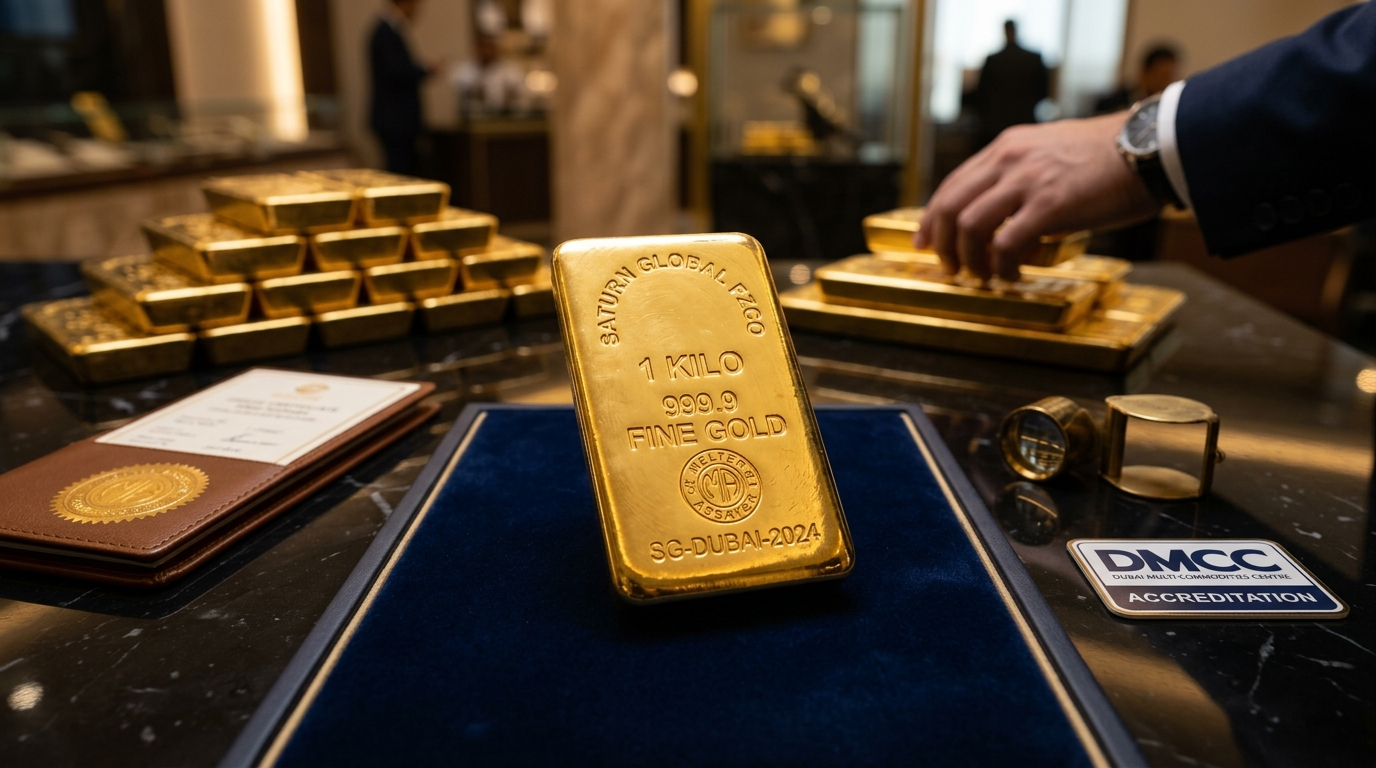
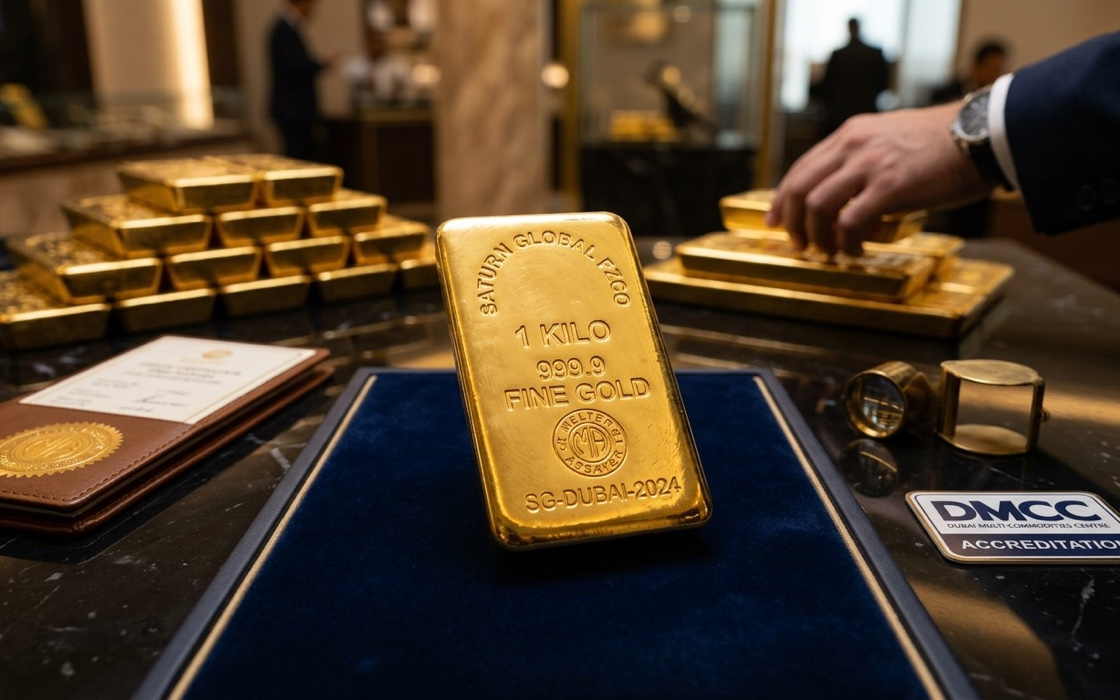
Optimize all website images to exact display container aspect ratios and frame sizes, reducing bandwidth lag while preserving pristine 2x retina clarity

diff --git a/src/features/home/HeroSection.tsx b/src/features/home/HeroSection.tsx
@@ -57,7 +57,7 @@ export function HeroSection({ onExploreServices }: HeroSectionProps) {
           >
             <div className="relative w-full max-w-[460px] grid grid-cols-2 gap-2 select-none">
               {/* Row 1 Left: Official Saturn Global Bullion Bars with rounded top-left corner */}
-              <div className="h-44 sm:h-52 rounded-tl-[80px] sm:rounded-tl-[100px] overflow-hidden bg-[#AA822A] shadow-md border-2 border-white/50 group">
+              <div className="h-44 sm:h-52 aspect-[230/208] rounded-tl-[80px] sm:rounded-tl-[100px] overflow-hidden bg-[#AA822A] shadow-md border-2 border-white/50 group">
                 <img
                   src="/images/saturn-branded-bullion.jpg"
                   alt="Saturn Global FZCO 999.9 Fine Gold Bullion Bars"
@@ -69,7 +69,7 @@ export function HeroSection({ onExploreServices }: HeroSectionProps) {
               </div>
 
               {/* Row 1 Right: Real physical gold bullion bars uploaded by user with rounded bottom-left corner */}
-              <div className="h-44 sm:h-52 rounded-bl-[80px] sm:rounded-bl-[100px] overflow-hidden shadow-md border-2 border-white/50 group bg-[#111]">
+              <div className="h-44 sm:h-52 aspect-[230/208] rounded-bl-[80px] sm:rounded-bl-[100px] overflow-hidden shadow-md border-2 border-white/50 group bg-[#111]">
                 <img
                   src="/images/saturn-real-bullion.webp"
                   alt="Real physical gold bars and bullion stock"
@@ -104,7 +104,7 @@ export function HeroSection({ onExploreServices }: HeroSectionProps) {
               </div>
 
               {/* Row 3 Left: Molten Gold Refinery Artisan with rounded bottom-left corner */}
-              <div className="h-44 sm:h-52 rounded-bl-[80px] sm:rounded-bl-[100px] overflow-hidden bg-[#141E1A] shadow-md border-2 border-white/50 group">
+              <div className="h-44 sm:h-52 aspect-[230/208] rounded-bl-[80px] sm:rounded-bl-[100px] overflow-hidden bg-[#141E1A] shadow-md border-2 border-white/50 group">
                 <img
                   src="/images/saturn-branded-refining.jpg"
                   alt="Gold refinery smelting and testing in Dubai"
@@ -116,7 +116,7 @@ export function HeroSection({ onExploreServices }: HeroSectionProps) {
               </div>
 
               {/* Row 3 Right: High-security Vault with rounded top-right corner */}
-              <div className="h-44 sm:h-52 rounded-tr-[80px] sm:rounded-tr-[100px] overflow-hidden shadow-md border-2 border-white/50 group bg-[#111]">
+              <div className="h-44 sm:h-52 aspect-[230/208] rounded-tr-[80px] sm:rounded-tr-[100px] overflow-hidden shadow-md border-2 border-white/50 group bg-[#111]">
                 <img
                   src="/images/saturn-branded-vault.jpg"
                   alt="High-security gold bullion vault in Dubai"

diff --git a/src/features/mining/MiningPage.tsx b/src/features/mining/MiningPage.tsx
@@ -157,7 +157,7 @@ export function MiningPage({ onPartnerInquiry: _ }: MiningPageProps) {
               transition={{ duration: 0.6, ease: 'easeOut' }}
               className="lg:col-span-5 flex justify-center"
             >
-              <div className="w-64 h-64 sm:w-80 sm:h-80 rounded-tl-[80px] rounded-br-[80px] rounded-tr-3xl rounded-bl-3xl overflow-hidden shadow-2xl border-4 border-white bg-[#121318] shrink-0 hover:scale-105 transition-all duration-300">
+              <div className="w-64 h-64 sm:w-80 sm:h-80 aspect-square rounded-tl-[80px] rounded-br-[80px] rounded-tr-3xl rounded-bl-3xl overflow-hidden shadow-2xl border-4 border-white bg-[#121318] shrink-0 hover:scale-105 transition-all duration-300">
                 <img
                   src="/images/saturn-branded-bullion.jpg"
                   alt="Saturn Global Gold Bullion Mining Project Finance"
@@ -207,7 +207,7 @@ export function MiningPage({ onPartnerInquiry: _ }: MiningPageProps) {
               transition={{ duration: 0.6, ease: 'easeOut' }}
               className="lg:col-span-5 flex justify-center"
             >
-              <div className="w-64 h-64 sm:w-80 sm:h-80 rounded-tr-[80px] rounded-bl-[80px] rounded-tl-3xl rounded-br-3xl overflow-hidden shadow-2xl border-4 border-white/90 bg-[#121318] shrink-0 hover:scale-105 transition-all duration-300">
+              <div className="w-64 h-64 sm:w-80 sm:h-80 aspect-square rounded-tr-[80px] rounded-bl-[80px] rounded-tl-3xl rounded-br-3xl overflow-hidden shadow-2xl border-4 border-white/90 bg-[#121318] shrink-0 hover:scale-105 transition-all duration-300">
                 <img
                   src="/images/saturn-branded-vault.jpg"
                   alt="Saturn Global Secure Vaulting and Working Partnerships"
@@ -268,7 +268,7 @@ export function MiningPage({ onPartnerInquiry: _ }: MiningPageProps) {
               transition={{ duration: 0.6, ease: 'easeOut' }}
               className="lg:col-span-5 flex justify-center"
             >
-              <div className="relative w-64 h-64 sm:w-80 sm:h-80 rounded-[48px] overflow-hidden shadow-2xl border-2 border-saturn-gold bg-[#111] shrink-0 hover:scale-105 transition-all duration-300 group">
+              <div className="relative w-64 h-64 sm:w-80 sm:h-80 aspect-square rounded-[48px] overflow-hidden shadow-2xl border-2 border-saturn-gold bg-[#111] shrink-0 hover:scale-105 transition-all duration-300 group">
                 <img
                   src="/images/saturn-real-bullion.webp"
                   alt="Saturn African Gold Bullion Supply"

diff --git a/src/features/markets/MarketsPage.tsx b/src/features/markets/MarketsPage.tsx
@@ -87,12 +87,14 @@ export function MarketsPage({ onContact: _ }: MarketsPageProps) {
               transition={{ duration: 0.7, ease: 'easeOut' }}
               className="lg:col-span-6 flex justify-center"
             >
-              <div className="w-full max-w-[540px]">
+              <div className="w-full max-w-[540px] aspect-square flex items-center justify-center">
                 <img
                   src="/images/market-africa-map.jpg"
                   alt="African Gold Trading Partners Map"
-                  className="w-full h-auto object-contain"
+                  className="w-full h-auto object-contain aspect-square"
                   loading="eager"
+                  width="540"
+                  height="540"
                 />
               </div>
             </motion.div>
@@ -150,12 +152,14 @@ export function MarketsPage({ onContact: _ }: MarketsPageProps) {
               transition={{ duration: 0.7, ease: 'easeOut' }}
               className="lg:col-span-6 flex justify-center"
             >
-              <div className="w-full max-w-[540px]">
+              <div className="w-full max-w-[540px] aspect-[960/735] flex items-center justify-center">
                 <img
                   src="/images/market-middle-east-map.jpg"
                   alt="Middle East and Turkey Gold Trading Map"
-                  className="w-full h-auto object-contain"
+                  className="w-full h-auto object-contain aspect-[960/735]"
                   loading="lazy"
+                  width="540"
+                  height="413"
                 />
               </div>
             </motion.div>
